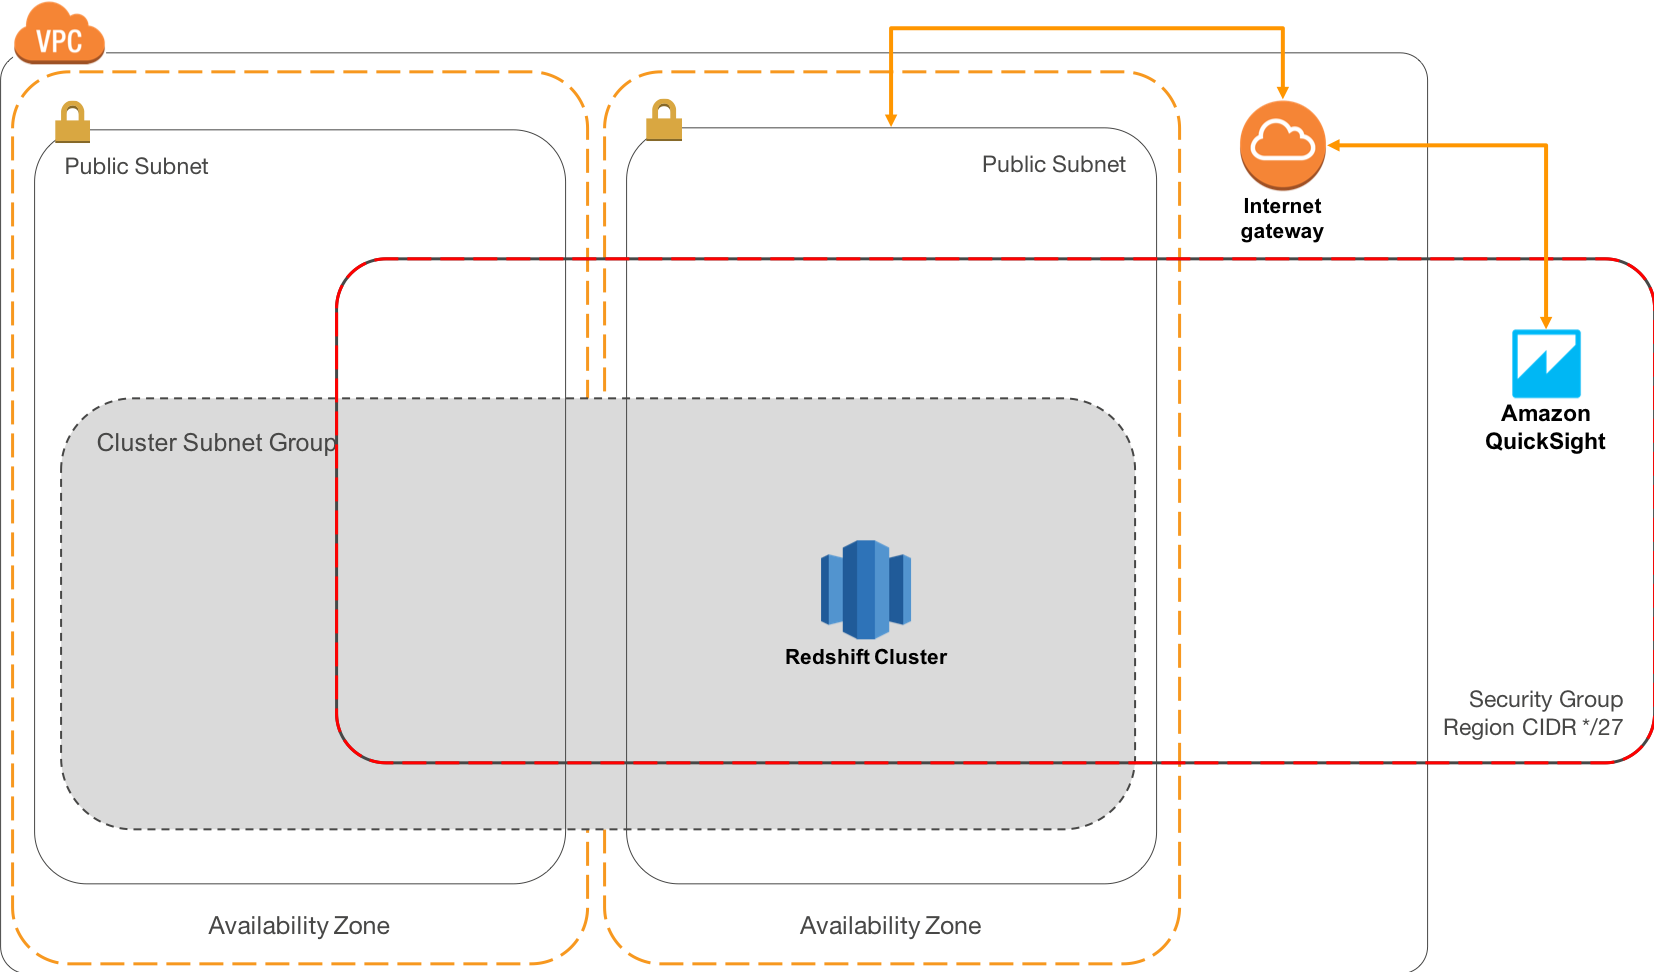
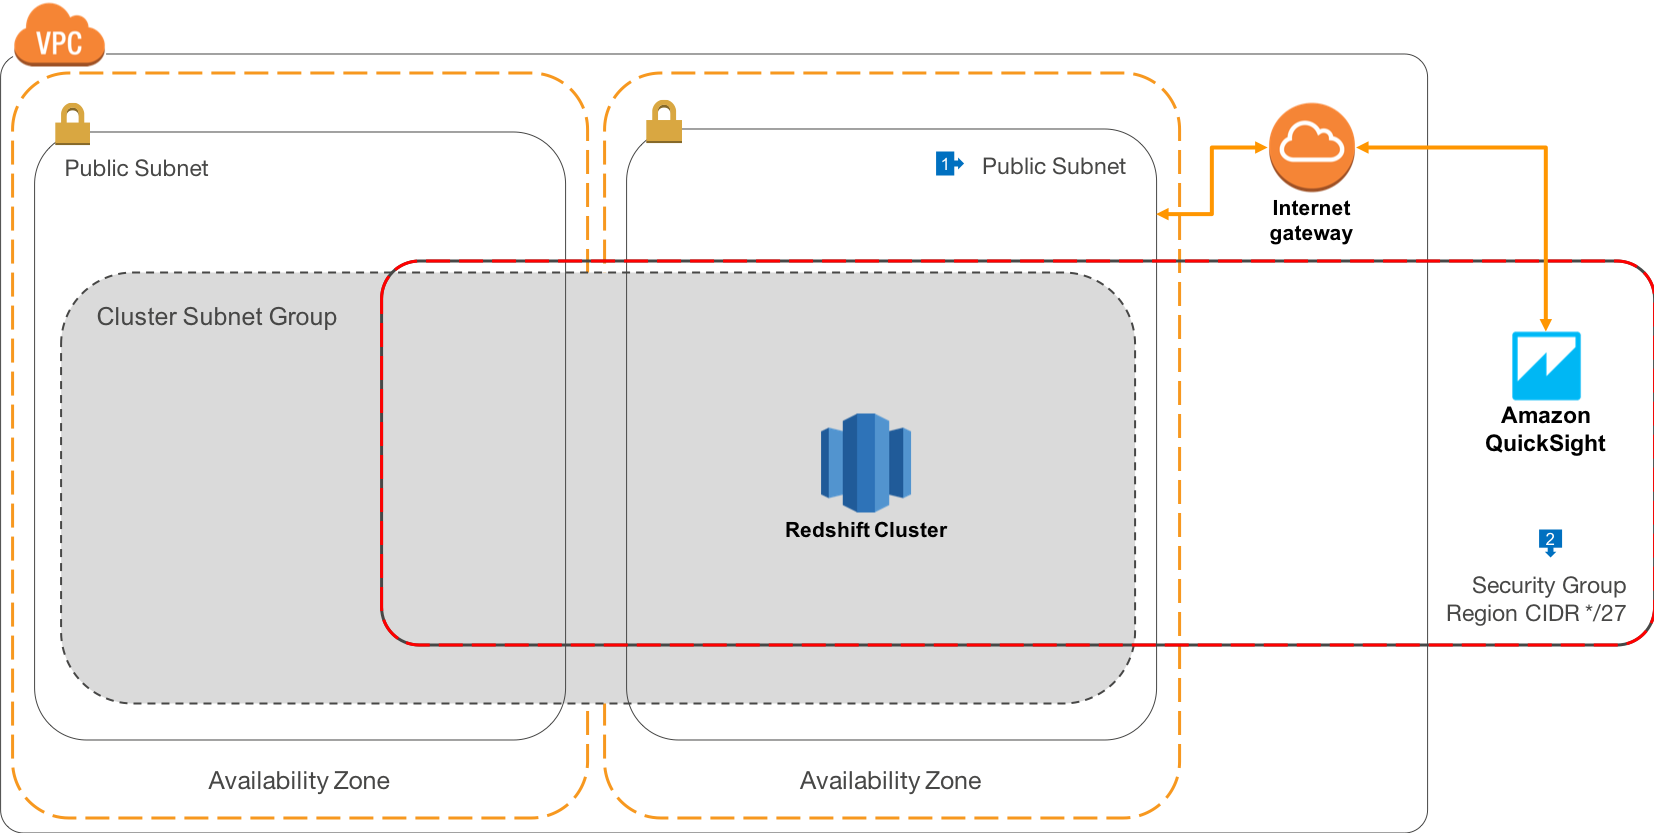
First version of Quicksight docs

diff --git a/src/quicksight-viz/README.md b/src/quicksight-viz/README.md
@@ -1,1 +1,18 @@
-Under Construction
+# Integration with Amazon Quicksight
+
+## Overview
+
+[Amazon Quicksight](https://aws.amazon.com/quicksight) is a fast, cloud-powered business analytics service that makes it easy to build visualizations, perform ad-hoc analysis, and quickly get business insights from your data.
+
+Quicksight natively integrates with Redshift [(and other data sources)](https://docs.aws.amazon.com/quicksight/latest/user/supported-data-sources.html) clusters in the same account as you've provisioned 
+
+![quicksight integration](quicksight-viz.png)
+
+## Walkthrough of the Architecture
+
+1. The deployment architecture used for Quicksight integration is the same as for [public routing](../public-routing). Redshift is deployed into a Public Subnet in your VPC, with a Cluster Subnet Group that spans all Public Subnets in your VPC.
+2. Redshift's Cluster Security Group is extended to include the [CIDR block range for Quicksight in the Region](https://docs.aws.amazon.com/quicksight/latest/user/regions.html).
+
+## Learn More
+
+You can learn more by following this [step-by-step guide](https://docs.aws.amazon.com/quicksight/latest/user/enabling-access-redshift.html).
